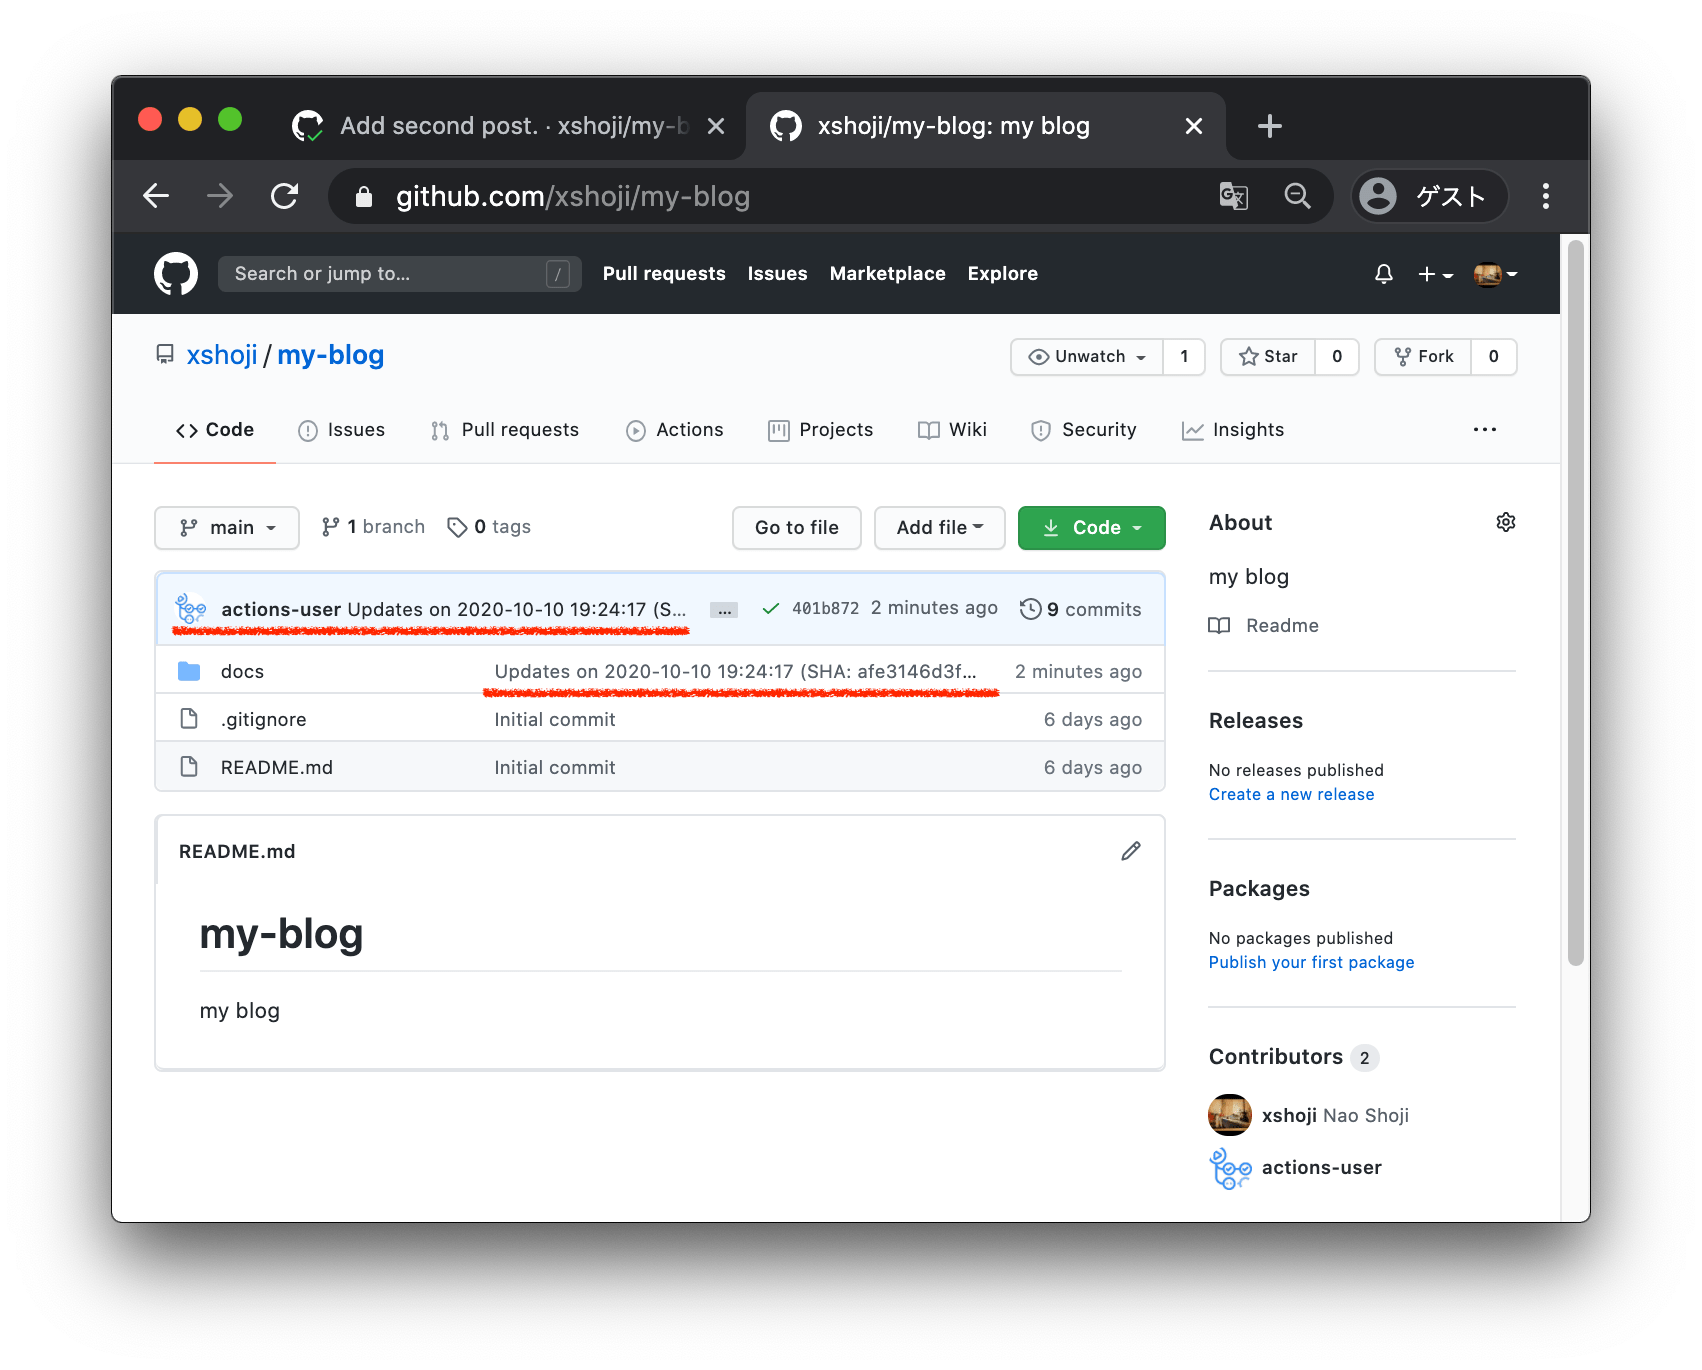
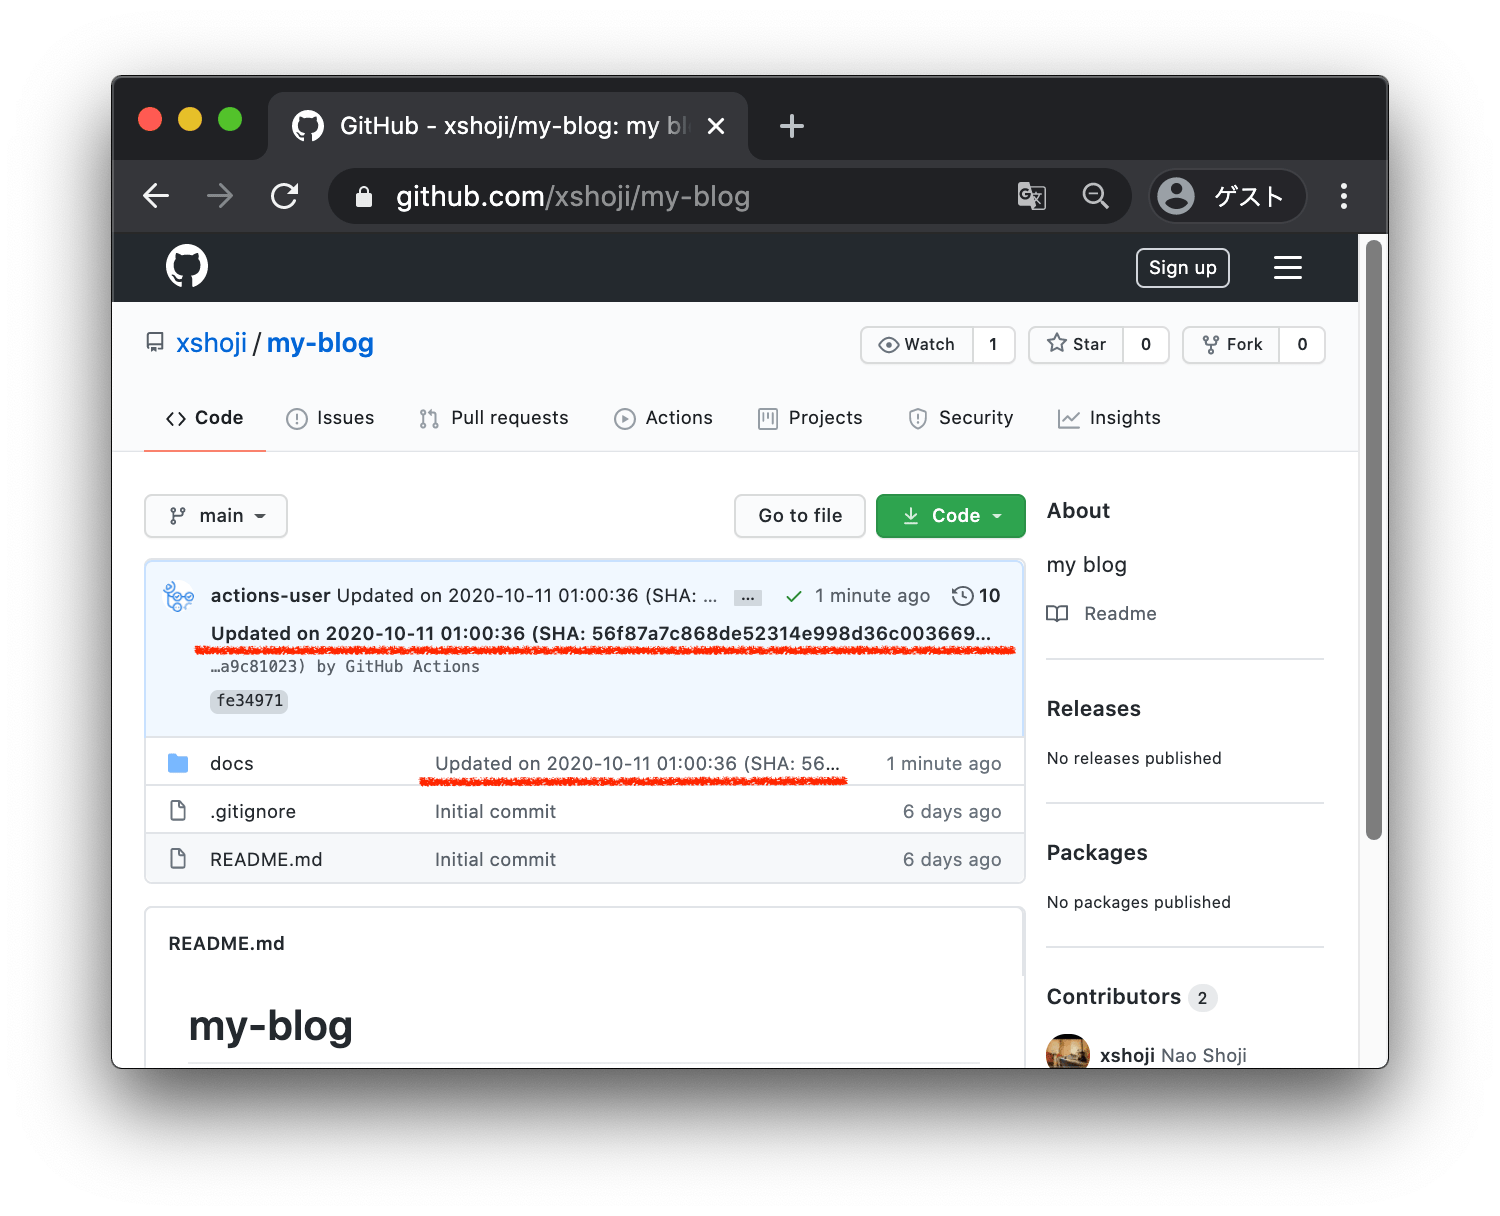
Updates on 2020-10-11 01:05:58 (SHA: fe1c039047bdd91e7fafb732a90fc6c061d64a2d) by GitHub Actions

diff --git a/docs/posts/20200927_instructions-for-building-a-free-blog-site-with-markdown-hugo-github-pages/index.html b/docs/posts/20200927_instructions-for-building-a-free-blog-site-with-markdown-hugo-github-pages/index.html
@@ -306,7 +306,7 @@ $ rm -rf docs
 $ cp -R ../my-blog-source/my-blog/docs .
 $ git add .
 $ git commit -am <span style=color:#e6db74>&#34;Add files&#34;</span>
-$ git push origin master
+$ git push origin main
 </code></pre></div><p>プッシュすると、Github Pagesが更新されます。
 <a href=#github-pages%E3%82%92%E8%A8%AD%E5%AE%9A%E3%81%97%E3%81%A6%E5%85%AC%E9%96%8B%E3%81%99%E3%82%8B>GitHub Pagesを設定して公開する</a>で公開したページを見てみましょう。</p><p>先程ローカルで確認したブログ記事が公開されているでしょうか。
 これで、記事の元ネタのMarkdownは公開せず（Private repository）、
@@ -428,7 +428,7 @@ jobs:
           cd my-blog # ■自分のブログ用リポジトリ名に置き換える■
           git add -A
           if ! git diff --cached --quiet; then
-            git commit -m &#34;Updates on $(TZ=Asia/Tokyo date +&#34;%Y-%m-%d %H:%M:%S&#34;) (SHA: $GITHUB_SHA) by GitHub Actions&#34;
+            git commit -m &#34;Updated on $(TZ=Asia/Tokyo date +&#34;%Y-%m-%d %H:%M:%S&#34;) (SHA: $GITHUB_SHA) by GitHub Actions&#34;
             git push origin main # ■メインブランチがmasterならmasterに置き換える■
           else
             echo &#34;No differences.&#34;
